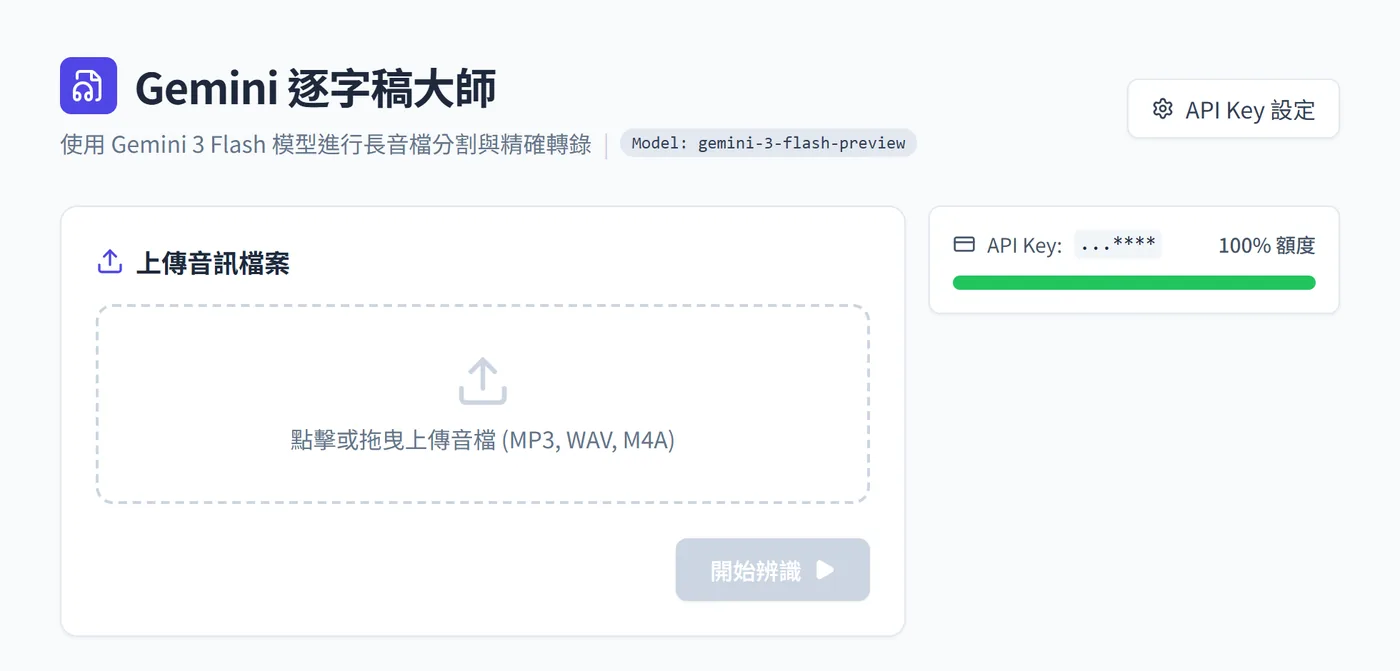
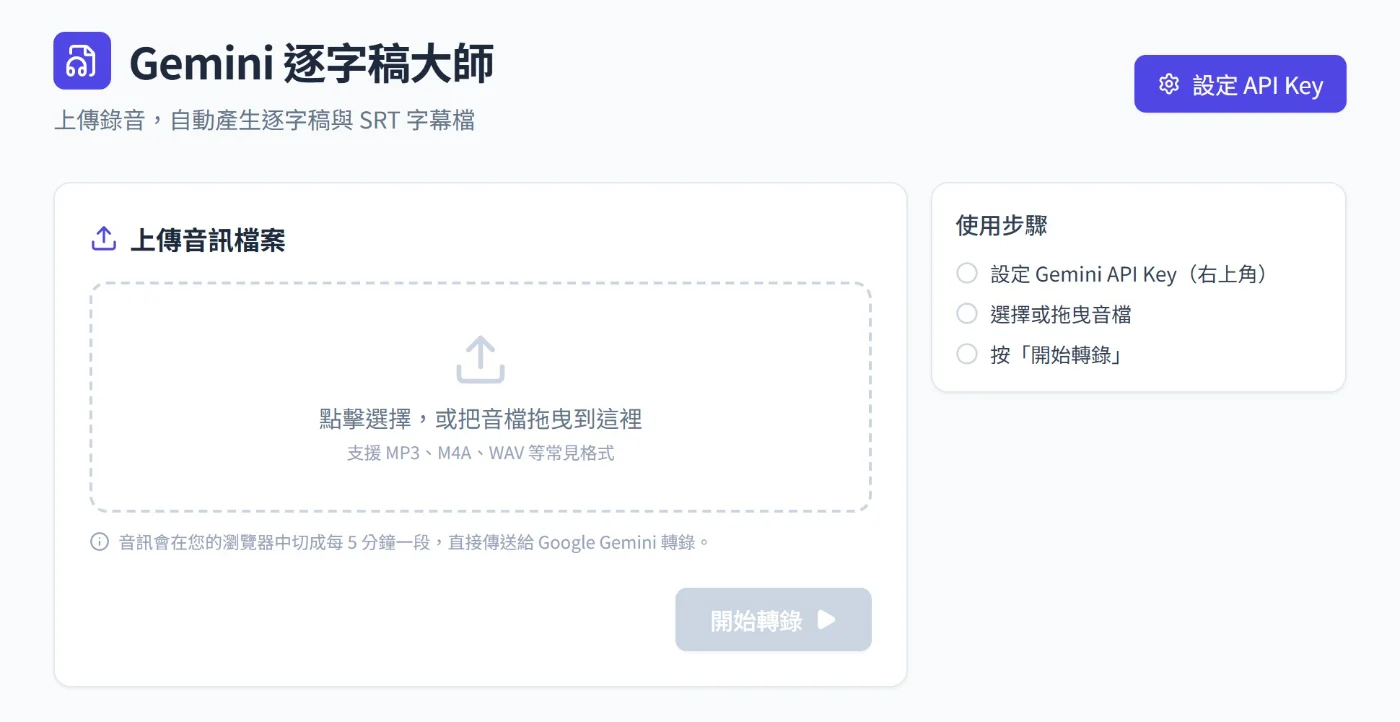
Update project screenshots to match the redesigned app layouts

diff --git a/index.html b/index.html
@@ -81,7 +81,7 @@
       <div class="cards">
         <article class="card c-indigo">
           <a class="shot" href="https://makodo123.github.io/gemini-Transcription-Master/" target="_blank" rel="noopener">
-            <img src="/img/transcribe.webp" width="1400" height="671" loading="lazy" alt="Gemini 逐字稿大師的上傳畫面">
+            <img src="/img/transcribe.webp" width="1400" height="722" loading="lazy" alt="Gemini 逐字稿大師的上傳畫面與使用步驟">
           </a>
           <div class="card-body">
             <h3>Gemini 逐字稿大師</h3>
@@ -106,7 +106,7 @@
 
         <article class="card c-crimson">
           <a class="shot" href="https://makodo123.github.io/smart-invoice/" target="_blank" rel="noopener">
-            <img src="/img/invoice.webp" width="1400" height="788" loading="lazy" alt="統一發票智能對獎的開獎號碼畫面">
+            <img src="/img/invoice.webp" width="1400" height="1050" loading="lazy" alt="統一發票智能對獎的快速對獎與開獎號碼畫面">
           </a>
           <div class="card-body">
             <h3>統一發票智能對獎</h3>
